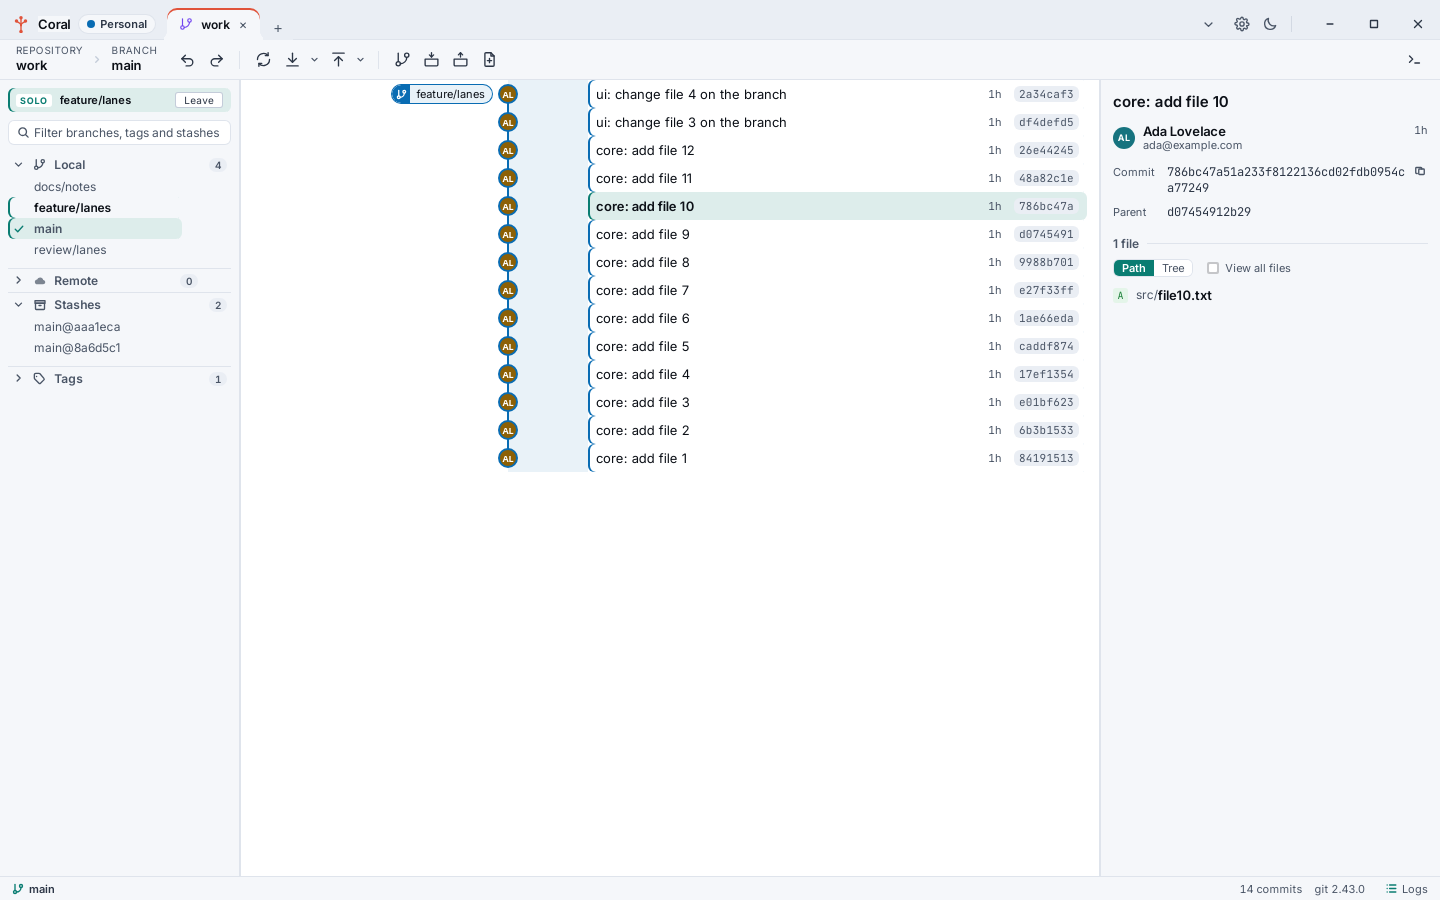
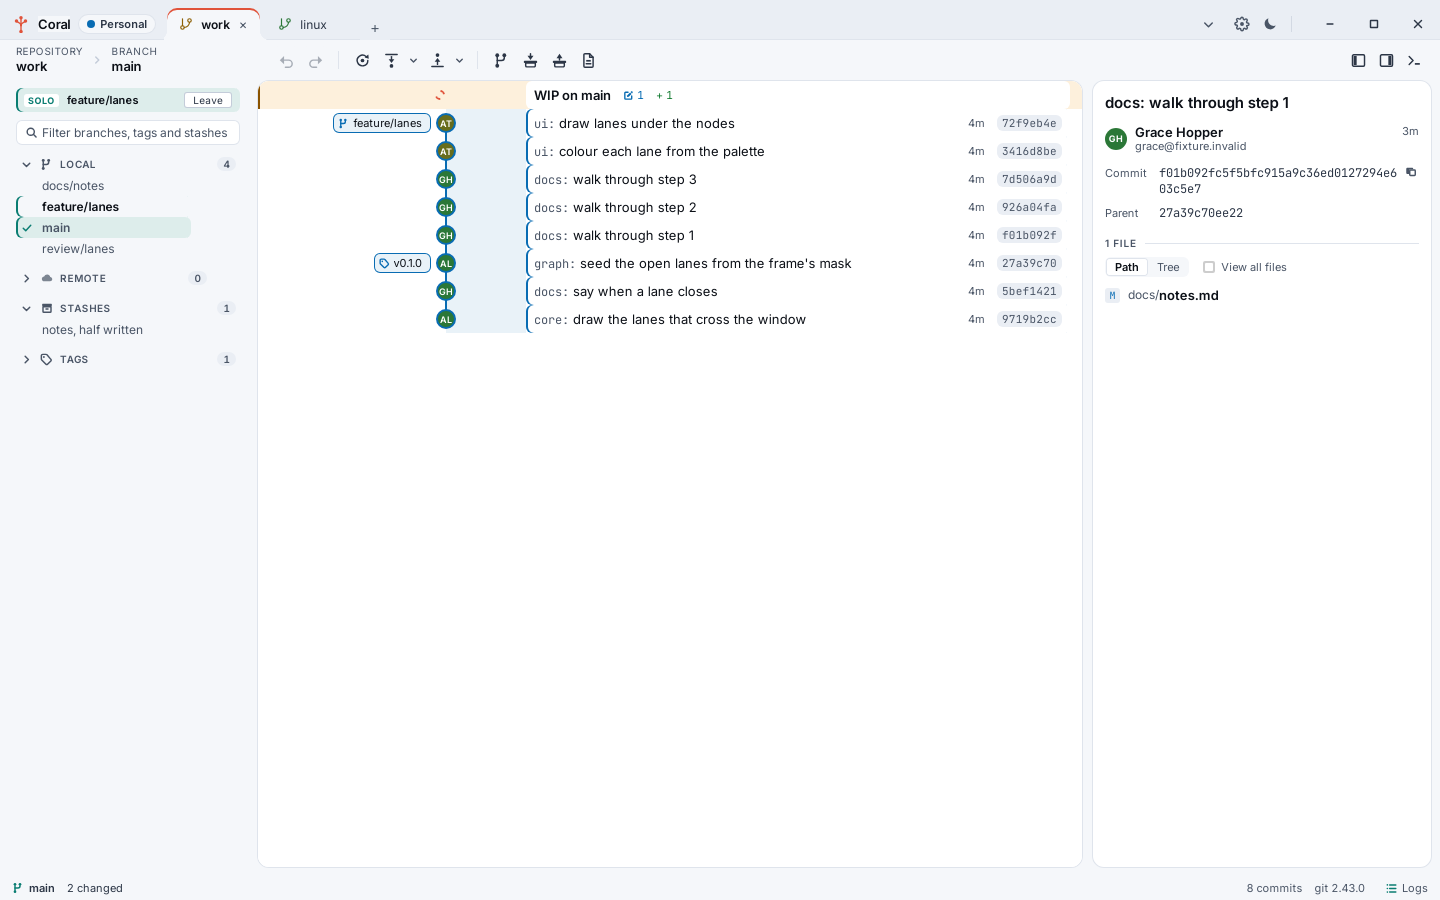
docs: photograph the refreshed window
All ten are retaken from the built binary under WebKitGTK at 1440 by 900, after the
refresh: cards on the ground, tinted pills, set-back subject prefixes and labelled panel
sections. The graph, the palette, the terminal and the dark theme are the 1,481,528-commit
kernel, against a clone of the benchmark copy. The rest are a small fixture repository
whose every commit is a fixture identity, with a real conflict between main and
review/lanes.

The branch column on the kernel was narrowed to give the summaries room, and the sidebar
is folded to its rail for the diff, the blame and the conflict, so the code in them reads.
The solo picture is the small repository, so its alt text no longer says it is the kernel,
and the website's no longer says the other branches are dimmed: soloing walks only the one.

Claude-Session: https://claude.ai/code/session_01UNrBZjnveZYcdYvaxW2CFd

diff --git a/site/index.html b/site/index.html
@@ -75,7 +75,7 @@
             <li>Drag one branch label onto another to merge, push or pull</li>
           </ul>
         </div>
-        <div class="frame"><img src="screenshots/10-solo.png" alt="One branch soloed in the graph, the rest dimmed" loading="lazy"></div>
+        <div class="frame"><img src="screenshots/10-solo.png" alt="One branch soloed: the graph walks only its history" loading="lazy"></div>
       </div>
 
       <div class="band flip">

diff --git a/README.md b/README.md
@@ -38,7 +38,7 @@ worth of DOM. The panel on the right is the commit under the cursor.*
 | [![The dark theme](docs/screenshots/08-dark.png)](docs/screenshots/08-dark.png) | [![The embedded terminal](docs/screenshots/09-terminal.png)](docs/screenshots/09-terminal.png) |
 | **A dark theme**, chosen or followed from the desktop. | **A terminal** in the repository, on ``Ctrl+` ``. |
 
-![A branch soloed on the kernel](docs/screenshots/10-solo.png)
+![A branch soloed](docs/screenshots/10-solo.png)
 
 *Solo. One branch walked and every other ref left out, so the graph is that branch's history
 and nothing else. The banner names it and gives it back; every other row stays clickable and
